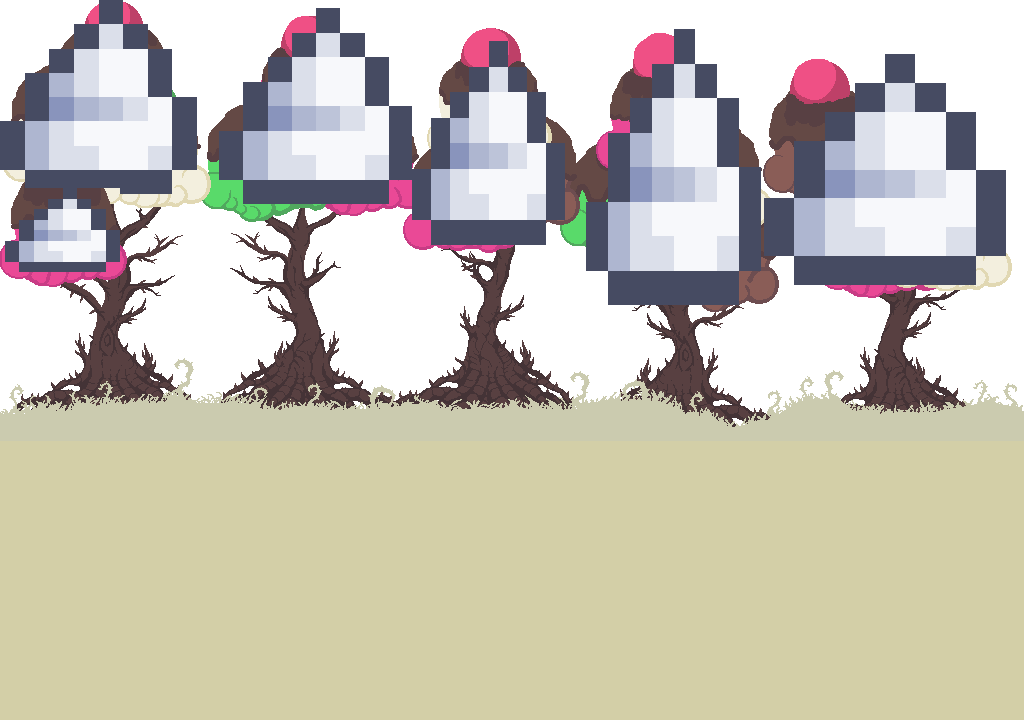
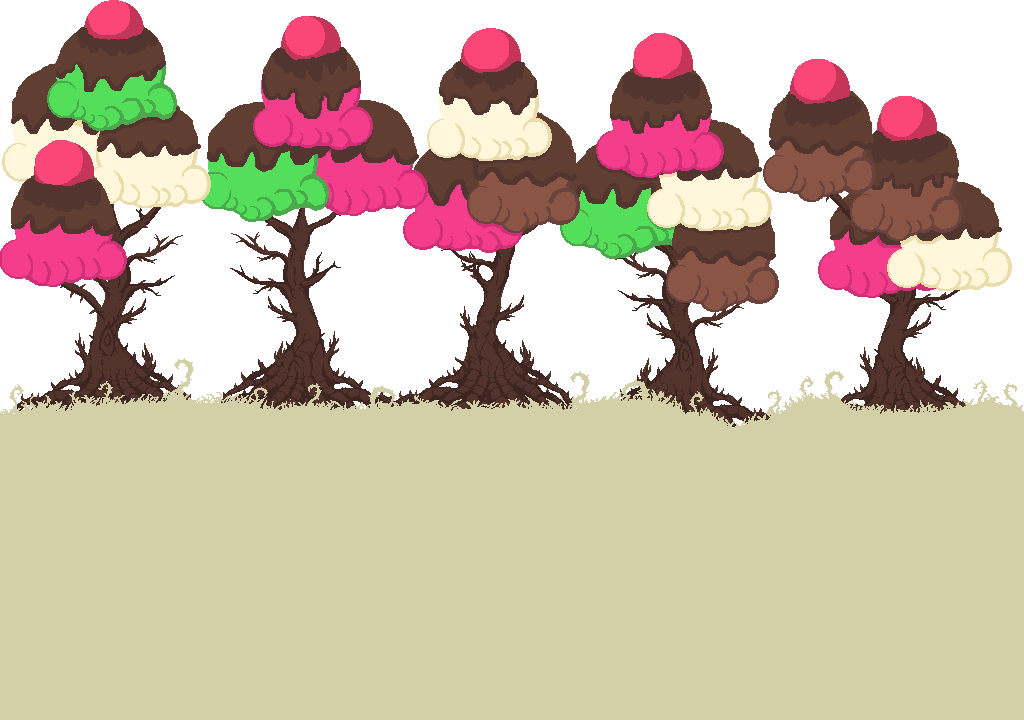
TODO: cream poo

Changed region(s): [[0.0, 0.0, 1.0, 0.4278]]

diff --git a/Backgrounds/ConfectionSurfaceBackgroundStyle.cs b/Backgrounds/ConfectionSurfaceBackgroundStyle.cs
@@ -49,22 +49,38 @@ namespace TheConfectionRebirth.Backgrounds
 
         public Asset<Texture2D> GetFarTexture(int i)
         {
-            throw new System.NotImplementedException();
+            if (i == 0)
+                return ModContent.Request<Texture2D>("TheConfectionRebirth/Backgrounds/ConfectionSurface1Far");
+            else if (i == 1)
+                return ModContent.Request<Texture2D>("TheConfectionRebirth/Backgrounds/ConfectionSurface2Far");
+            return ModContent.Request<Texture2D>("TheConfectionRebirth/Backgrounds/ConfectionSurface3Far");
         }
 
         public Asset<Texture2D> GetCloseTexture(int i)
         {
-            throw new System.NotImplementedException();
+            if (i == 0)
+                return ModContent.Request<Texture2D>("TheConfectionRebirth/Backgrounds/ConfectionSurface1Close");
+            else if (i == 1)
+                return ModContent.Request<Texture2D>("TheConfectionRebirth/Backgrounds/ConfectionSurface2Close");
+            return ModContent.Request<Texture2D>("TheConfectionRebirth/Backgrounds/ConfectionSurface3Close");
         }
 
         public Asset<Texture2D> GetMidTexture(int i)
         {
-            throw new System.NotImplementedException();
+            if (i == 0)
+                return ModContent.Request<Texture2D>("TheConfectionRebirth/Backgrounds/ConfectionSurface1Mid");
+            else if (i == 1)
+                return ModContent.Request<Texture2D>("TheConfectionRebirth/Backgrounds/ConfectionSurface2Mid");
+            return ModContent.Request<Texture2D>("TheConfectionRebirth/Backgrounds/ConfectionSurface3Mid");
         }
 
         public Asset<Texture2D> GetUltraFarTexture(int i)
         {
-            throw new System.NotImplementedException();
+            if (i == 0)
+                return ModContent.Request<Texture2D>("TheConfectionRebirth/Backgrounds/ConfectionSurface1Far");
+            else if (i == 1)
+                return ModContent.Request<Texture2D>("TheConfectionRebirth/Backgrounds/ConfectionSurface2Far");
+            return ModContent.Request<Texture2D>("TheConfectionRebirth/Backgrounds/ConfectionSurface3Far");
         }
     }
 }

diff --git a/Backgrounds/ConfectionSandSurfaceBackgroundStyle.cs b/Backgrounds/ConfectionSandSurfaceBackgroundStyle.cs
@@ -47,22 +47,22 @@ namespace TheConfectionRebirth.Backgrounds
 
         public Asset<Texture2D> GetFarTexture(int i)
         {
-            throw new System.NotImplementedException();
+            return ModContent.Request<Texture2D>("TheConfectionRebirth/Backgrounds/ConfectionSandSurfaceFar");
         }
 
         public Asset<Texture2D> GetCloseTexture(int i)
         {
-            throw new System.NotImplementedException();
+            return ModContent.Request<Texture2D>("TheConfectionRebirth/Backgrounds/ConfectionSandSurfaceClse");
         }
 
         public Asset<Texture2D> GetMidTexture(int i)
         {
-            throw new System.NotImplementedException();
+            return ModContent.Request<Texture2D>("TheConfectionRebirth/Backgrounds/ConfectionSandSurfaceMid0");
         }
 
         public Asset<Texture2D> GetUltraFarTexture(int i)
         {
-            throw new System.NotImplementedException();
+            return ModContent.Request<Texture2D>("TheConfectionRebirth/Backgrounds/ConfectionSandSurfaceFar");
         }
     }
 }

diff --git a/Backgrounds/ConfectionSnowSurfaceBackgroundStyle.cs b/Backgrounds/ConfectionSnowSurfaceBackgroundStyle.cs
@@ -46,23 +46,23 @@ namespace TheConfectionRebirth.Backgrounds
         }
 
 		public Asset<Texture2D> GetFarTexture(int i)
-		{
-			throw new System.NotImplementedException();
-		}
+        {
+            return ModContent.Request<Texture2D>("TheConfectionRebirth/Backgrounds/ConfectionSnowSurfaceFar");
+        }
 
 		public Asset<Texture2D> GetCloseTexture(int i)
-		{
-			throw new System.NotImplementedException();
-		}
+        {
+            return ModContent.Request<Texture2D>("TheConfectionRebirth/Backgrounds/ConfectionSnowSurfaceClose");
+        }
 
 		public Asset<Texture2D> GetMidTexture(int i)
-		{
-			throw new System.NotImplementedException();
-		}
+        {
+            return ModContent.Request<Texture2D>("TheConfectionRebirth/Backgrounds/ConfectionSnowSurfaceMid0");
+        }
 
 		public Asset<Texture2D> GetUltraFarTexture(int i)
-		{
-			throw new System.NotImplementedException();
-		}
+        {
+            return ModContent.Request<Texture2D>("TheConfectionRebirth/Backgrounds/ConfectionSnowSurfaceFar");
+        }
 	}
 }
